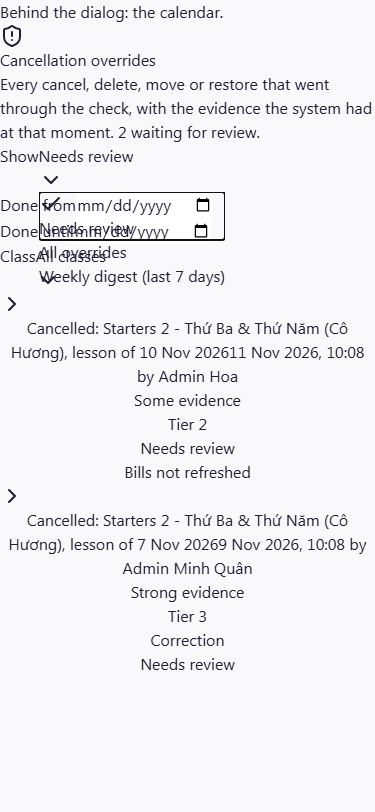
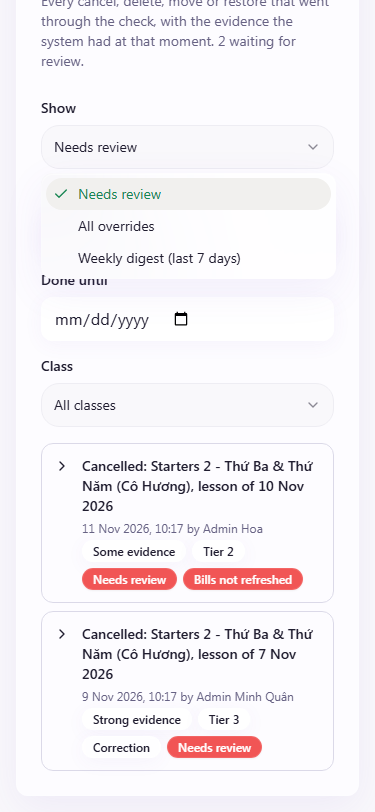
D3: scroll to the stale notice

diff --git a/src/components/admin/session-guard/GuardDialog.tsx b/src/components/admin/session-guard/GuardDialog.tsx
@@ -67,6 +67,7 @@ export function GuardDialog({ open, session, op, change, onClose, onDone, onCanc
   const [typedDate, setTypedDate] = useState("");
   const keepRef = useRef<HTMLButtonElement>(null);
   const doneRef = useRef<HTMLButtonElement>(null);
+  const bodyRef = useRef<HTMLDivElement>(null);
 
   useEffect(() => {
     if (!open) {
@@ -82,6 +83,8 @@ export function GuardDialog({ open, session, op, change, onClose, onDone, onCanc
     if (staleNonce > 0) {
       setConfirm(false);
       setTypedDate("");
+      // The "changed while you were looking" notice is at the top: bring it into view.
+      bodyRef.current?.scrollTo({ top: 0 });
     }
   }, [staleNonce]);
 
@@ -144,7 +147,7 @@ export function GuardDialog({ open, session, op, change, onClose, onDone, onCanc
           </DialogDescription>
         </DialogHeader>
 
-        <div className="min-h-0 flex-1 space-y-4 overflow-y-auto p-4 sm:p-5">
+        <div ref={bodyRef} className="min-h-0 flex-1 space-y-4 overflow-y-auto p-4 sm:p-5">
           {phase === "loading" && <LoadingBody />}
 
           {phase === "failed" && error && (
